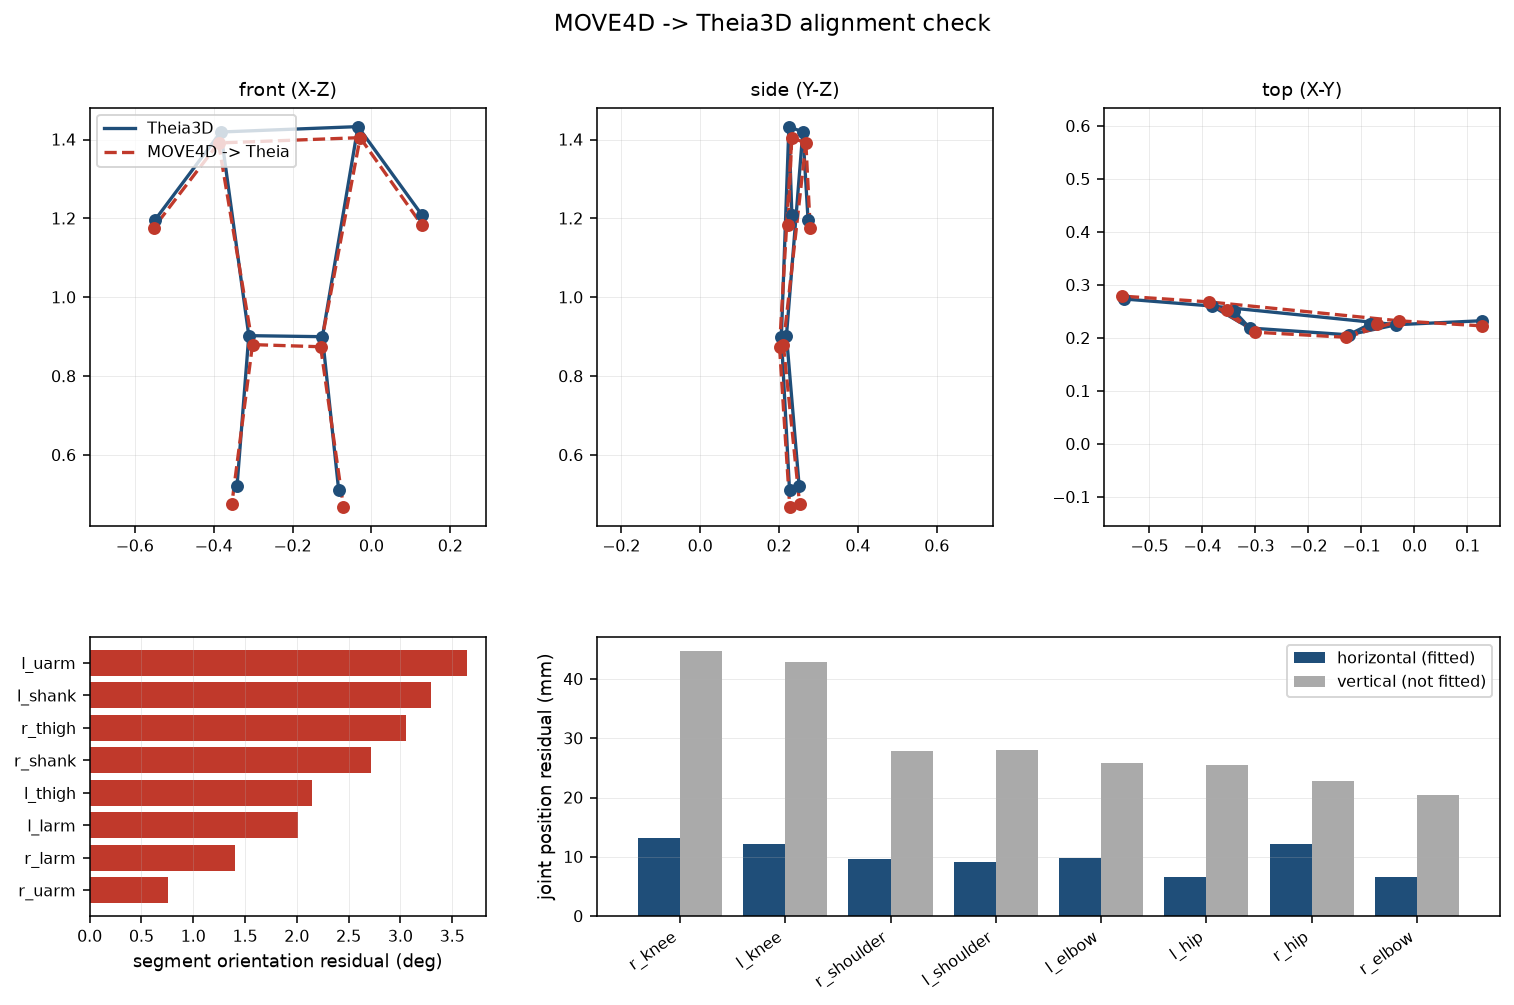
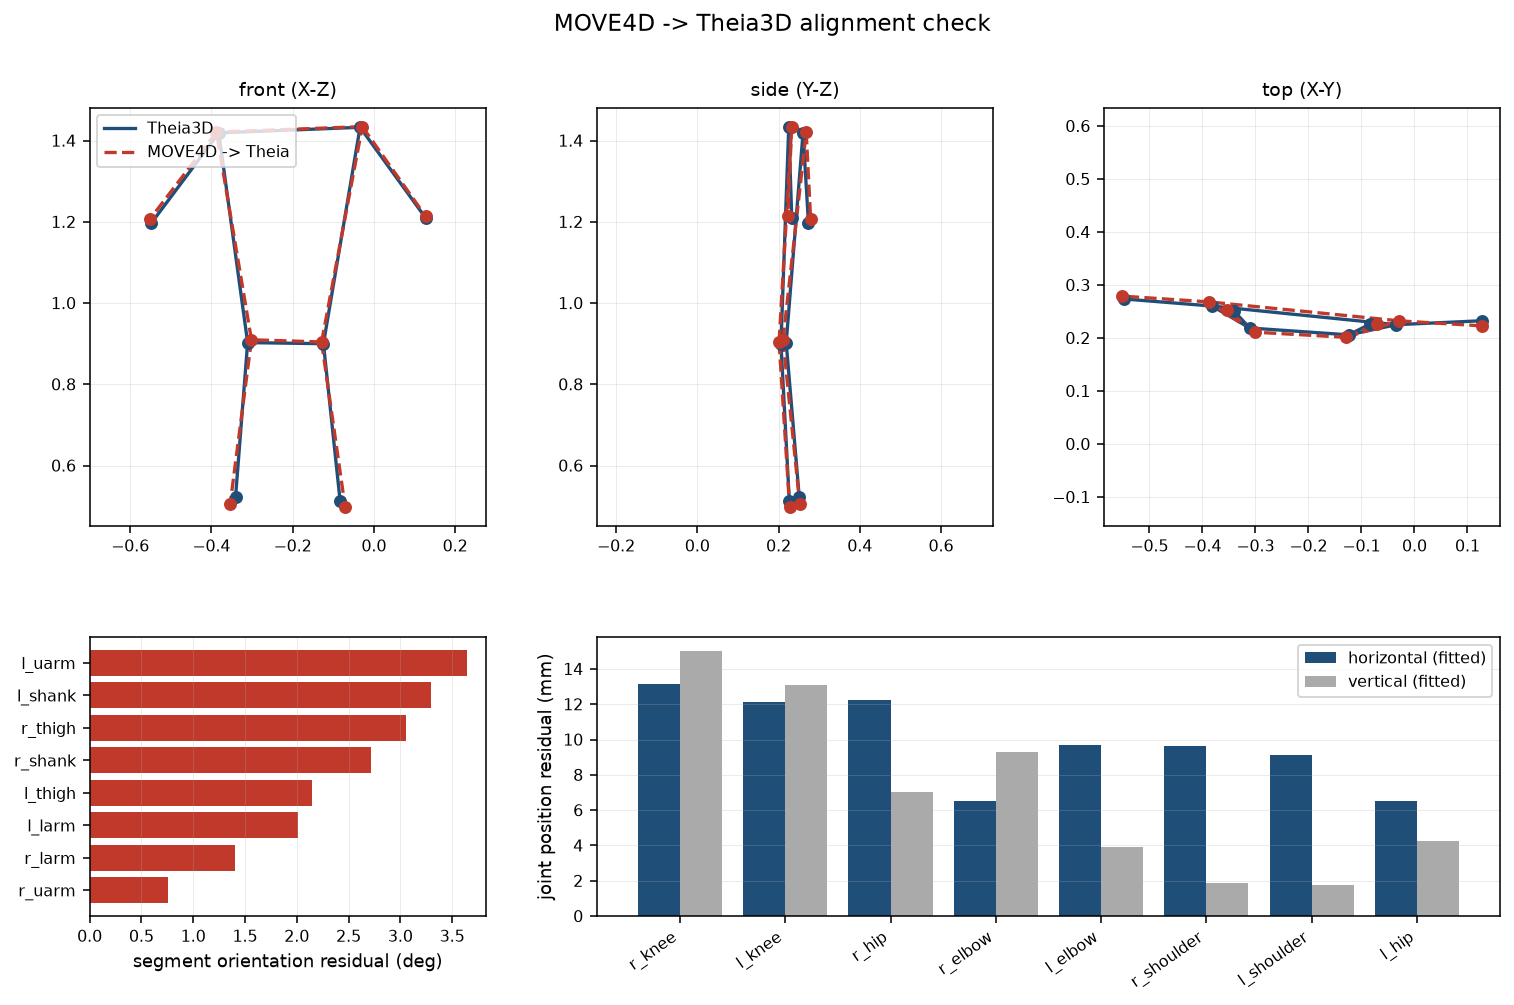
Fit the vertical translation again; corroborate it from the scan's floor
The two coordinate systems are offset vertically after all, so
ASSUME_SHARED_FLOOR defaults to False and t_z is fitted like any other
component (+29.8 mm here). The switch stays for datasets where the floors
really are shared.

The floor check earns its keep under the new default rather than losing its
purpose. The MOVE4D scan locates its own floor plane directly -- 757
vertices within 5 mm of z = 0, lowest 5.4 mm below -- so the fitted t_z can
be turned into an implied Theia floor height and sanity-checked. A +29.8 mm
offset puts Theia's floor at z = +29.8 mm in Theia coordinates, and Theia's
lowest model vertex then clears it by 13.9 mm rather than 43.7 mm. A
~270-vertex foot primitive clearing by 14 mm is far more plausible than one
clearing by 44 mm, so the mesh independently supports a real offset. The
report says plainly that this is corroboration and not proof, since Theia's
meshes are a model rather than a measurement.

Added a second, cheaper test: the residual signs. Suppressing a real offset
makes every vertical residual share a sign, while absorbing it correctly
leaves them scattered about zero. The report checks this every run and names
the switch to change. On this dataset, forcing ASSUME_SHARED_FLOOR = True
now makes all eight residuals positive and the script flags itself.

With t_z fitted the vertical residuals are -7 to -2 mm at the hips,
shoulders and elbows and +13 to +15 mm at the knees -- a genuine knee
[…]

diff --git a/m4d_to_theia_transform.py b/m4d_to_theia_transform.py
@@ -136,14 +136,24 @@ ML_AXES = [("hip_width", "r_hip", "l_hip"),
            ("shoulder_width", "r_shoulder", "l_shoulder"),
            ("elbow_width", "r_elbow", "l_elbow")]
 
-# Both systems put z = 0 on the floor, so the true vertical offset between
-# their coordinate systems is zero and t_z is not something to estimate.
-# Fitting it anyway just absorbs the two skeletons' vertical joint-centre
-# disagreement (~30 mm here) into the transform. With this True the fit
-# solves for the horizontal translation only and reports the vertical
-# disagreement separately, where it belongs. CHECK_FLOOR_FROM_MESH verifies
-# the assumption from the mesh rather than taking it on trust.
-ASSUME_SHARED_FLOOR = True
+# The two coordinate systems ARE offset vertically, so t_z is fitted like
+# any other component. Set ASSUME_SHARED_FLOOR = True only if you know both
+# systems put z = 0 on the same floor plane; it then locks t_z to zero and
+# reports what the joint centres implied instead of burying it in the matrix.
+#
+# Be aware of what a fitted t_z contains. It is the TRUE vertical offset
+# between the two calibrations PLUS any systematic vertical bias between the
+# two skeletons' joint-centre definitions, and one static pose cannot
+# separate them. The floor check below is the closest thing to an
+# independent read on it: the MOVE4D scan locates its own floor plane
+# directly, so the fitted t_z can be turned into an implied Theia floor
+# height and sanity-checked against where Theia's feet sit.
+#
+# The residual signs are the tell. Suppress a real offset and every vertical
+# residual comes out the same sign; absorb it correctly and they scatter
+# about zero with only genuine definition differences left standing. The
+# report checks this for you.
+ASSUME_SHARED_FLOOR = False
 CHECK_FLOOR_FROM_MESH = True
 
 # Joint centres whose positions drive the translation (step 6). These are the
@@ -701,20 +711,20 @@ def solve_rotation(U, V, vertical_only):
 def solve_translation(A, B, R, lock_vertical=None):
     """t minimising sum ||a_i - (R b_i + t)||^2, which is just the mean.
 
-    With lock_vertical, t_z is forced to zero instead of fitted: both systems
-    put z = 0 on the floor, so there is no vertical offset between their
-    coordinate systems to estimate, and anything the fit puts there is the
-    two skeletons disagreeing about joint-centre height, not a calibration
-    difference. The mean vertical difference is returned so it can be
-    reported rather than silently buried in the matrix.
+    With lock_vertical, t_z is forced to zero instead of fitted -- for the
+    case where both systems put z = 0 on the same floor plane and there is
+    therefore no vertical offset to estimate. Either way the vertical offset
+    the joint centres imply is returned separately, so it can be reported
+    and cross-checked against the floor rather than only living inside the
+    matrix.
     """
     lock = ASSUME_SHARED_FLOOR if lock_vertical is None else lock_vertical
     t = (A - B @ R.T).mean(axis=0)
-    vertical_disagreement = float(t[2])
+    implied_vertical = float(t[2])
     if lock:
         t = t.copy()
         t[2] = 0.0
-    return t, vertical_disagreement
+    return t, implied_vertical
 
 
 # %%==========================================================================
@@ -963,7 +973,9 @@ def solve(theia_path=None, m4d_path=None, vertical_only=None, verbose=True):
             vertical_per_joint=dict(zip(keys, vert_err.round(2).tolist()))),
         vertical=dict(
             locked=ASSUME_SHARED_FLOOR,
-            mean_disagreement_mm=vertical_gap * 1000,
+            implied_offset_mm=vertical_gap * 1000,
+            residual_signs_agree=bool(np.all(vert_err > 0)
+                                      or np.all(vert_err < 0)),
             floor_check=dict(theia=floor_check(th), m4d=floor_check(m4))
             if CHECK_FLOOR_FROM_MESH else None),
         heading_uncertainty=heading_uncertainty(U, V, labels),
@@ -1089,14 +1101,23 @@ def print_report(r, th, m4):
     pr = r["position_residual_mm"]
     vt = r["vertical"]
     if vt["locked"]:
-        print("    vertical LOCKED: both systems put z = 0 on the floor, so")
-        print(f"    t_z = 0, and the {vt['mean_disagreement_mm']:+.1f} mm the "
-              f"fit would have put there is")
-        print("    reported below as skeleton disagreement instead.")
+        print("    vertical LOCKED (ASSUME_SHARED_FLOOR): t_z = 0, and the")
+        print(f"    {vt['implied_offset_mm']:+.1f} mm the joint centres imply "
+              f"is reported below instead")
+        print("    of being absorbed into the matrix.")
+    else:
+        print(f"    vertical FITTED: t_z = {vt['implied_offset_mm']:+.1f} mm. "
+              f"That figure is the true")
+        print("    calibration offset PLUS any systematic vertical bias "
+              "between the")
+        print("    two skeletons' joint-centre definitions; one static pose "
+              "cannot")
+        print("    separate them. See the floor check below.")
     print(f"\n    horizontal residual   RMS {pr['horizontal_rms']:5.1f} mm"
           "   <- what the fit minimised")
-    print(f"    vertical residual     RMS {pr['vertical_rms']:5.1f} mm   "
-          + ("<- NOT fitted, definition gap" if vt["locked"] else ""))
+    print(f"    vertical residual     RMS {pr['vertical_rms']:5.1f} mm"
+          + ("   <- NOT fitted, definition gap" if vt["locked"]
+             else "   <- what is left after fitting t_z"))
     print(f"    total                 RMS {pr['rms']:5.1f} mm, "
           f"max {pr['max']:.1f} mm")
     print(f"\n      {'joint':11s} {'total':>9s} {'vertical':>9s}")
@@ -1113,25 +1134,61 @@ def print_report(r, th, m4):
             print(f"      {lab:12s} {d['n_vertices']:6d} verts | lowest "
                   f"{d['lowest_mm']:+7.1f} mm | top {d['highest_mm']:7.1f} mm"
                   f" | {d['within_5mm_of_floor']:5d} within 5 mm of z=0")
-        th_fc = fc.get("theia")
-        if th_fc and th_fc["within_5mm_of_floor"] == 0:
-            print("      Theia's meshes are its body MODEL (a 270-vertex "
-                  "primitive per")
-            print("      limb), not a measurement, so their "
-                  f"{th_fc['lowest_mm']:.0f} mm clearance says")
-            print("      nothing about where its floor is. Only the scan can "
-                  "settle that.")
-        m = fc.get("m4d")
+        m, th_fc = fc.get("m4d"), fc.get("theia")
         if m:
-            if abs(m["lowest_mm"]) < 20 and m["within_5mm_of_floor"] > 50:
-                print("      -> the scanned subject is standing ON the floor "
-                      "plane, not")
-                print("         floating: z = 0 really is the floor in the "
-                      "MOVE4D file.")
+            on_floor = abs(m["lowest_mm"]) < 20 and m["within_5mm_of_floor"] > 50
+            if on_floor:
+                print("      -> the scanned subject stands ON the floor, so "
+                      "MOVE4D's floor plane")
+                print(f"         is z = {m['lowest_mm']:+.1f} mm: its origin "
+                      f"is on the floor.")
             else:
-                print("      -> the scan does NOT reach z = 0. Check the "
-                      "assumption;")
-                print("         ASSUME_SHARED_FLOOR may be wrong for this file.")
+                print("      -> the scan does not reach z = 0, so MOVE4D's "
+                      "floor cannot be")
+                print("         located this way. Treat the rest of this "
+                      "block with caution.")
+            tz = vt["implied_offset_mm"]
+            if on_floor and th_fc:
+                # the MOVE4D floor (z=0) maps to z = t_z in Theia coordinates
+                clear_fit = th_fc["lowest_mm"] - tz
+                print(f"\n      A vertical offset of {tz:+.1f} mm puts Theia's "
+                      f"floor at z = {tz:+.1f} mm in")
+                print("      Theia coordinates, i.e. its origin that far "
+                      "BELOW the floor. Theia's")
+                print(f"      lowest model vertex then clears the floor by "
+                      f"{clear_fit:+.1f} mm, against")
+                print(f"      {th_fc['lowest_mm']:+.1f} mm if the two floors "
+                      f"were assumed shared.")
+                print("      Theia's meshes are a body MODEL (a ~270-vertex "
+                      "primitive per limb),")
+                print("      not a measurement, so neither figure is proof -- "
+                      "but a simplified")
+                if abs(clear_fit) < abs(th_fc["lowest_mm"]):
+                    print("      foot primitive sitting the SMALLER distance "
+                          "off the floor is the")
+                    print("      more plausible of the two, which independently "
+                          "supports a real")
+                    print("      vertical offset rather than a shared floor.")
+                else:
+                    print("      foot primitive would have to sit FURTHER off "
+                          "the floor for the")
+                    print("      fitted offset to hold, which argues the other "
+                          "way. Worth a look.")
+
+        # the residual signs are the other tell
+        if vt["residual_signs_agree"]:
+            print("\n      !! every vertical residual has the same sign. That "
+                  "is the signature of")
+            print("      a real vertical offset being SUPPRESSED, not a "
+                  "definition gap."
+                  + ("\n      Set ASSUME_SHARED_FLOOR = False."
+                     if vt["locked"] else ""))
+        else:
+            print("\n      vertical residuals scatter about zero, which is "
+                  "what you want:")
+            print("      the offset has been absorbed and only genuine "
+                  "definition")
+            print("      differences are left standing.")
 
     print("\n" + "-" * W)
     print("  RESULT     p_theia = T @ [p_m4d, 1]   (raw FBX coords both sides)")

diff --git a/README.md b/README.md
@@ -64,32 +64,46 @@ No weighting is needed: a plain Kabsch already weights each observation's
 heading contribution by its squared horizontal component, so the ML axes outvote
 the long axes ~7:1 for yaw and not at all for tilt, which is exactly right.
 
-## The vertical is not fitted
+## The vertical offset
 
-Both systems put **z = 0 on the floor**, so there is no vertical offset between
-their coordinate systems to estimate. `ASSUME_SHARED_FLOOR = True` locks
-`t_z = 0`; anything the fit would have put there is the two skeletons
-disagreeing about joint-centre *height*, and it is reported separately instead
-of being buried in the matrix.
+The two coordinate systems **are** offset vertically, so `t_z` is fitted like any
+other component: **+29.8 mm**. Set `ASSUME_SHARED_FLOOR = True` only if you know
+both systems put z = 0 on the same floor plane; it then locks `t_z = 0` and
+reports what the joint centres implied instead of burying it in the matrix.
 
-The script verifies this from the body **surface**, because a joint centre is an
-inference and the sole of a foot is not. MOVE4D ships the real scan (49,530
-vertices, skinned to the rig — the script does the linear blend skinning);
-Theia ships its body model as rigid meshes parented to the segments.
+Know what a fitted `t_z` contains: the true offset between the two calibrations
+**plus** any systematic vertical bias between the two skeletons' joint-centre
+definitions. One static pose cannot separate them.
+
+The script gives you two independent reads on whether the offset is real.
+
+**The floor, from the body surface** — because a joint centre is an inference and
+the sole of a foot is not. MOVE4D ships the real scan (49,530 vertices, skinned
+to the rig; the script does the linear blend skinning). Theia ships its body
+model as rigid meshes parented to the segments.
 
 ```
 Theia model   34054 verts | lowest  +43.7 mm | top 1750.0 mm |   0 within 5 mm of z=0
 MOVE4D scan   49530 verts | lowest   -5.4 mm | top 1769.6 mm | 757 within 5 mm of z=0
 ```
 
-**The scanned subject is standing on the floor plane, not floating.** Theia's
-meshes are a body model (a ~270-vertex primitive per limb), not a measurement,
-so their 44 mm clearance says nothing about where its floor is.
+The scanned subject is standing **on** the floor, not floating, so MOVE4D's
+origin is on the floor. A +29.8 mm offset then puts Theia's floor at z = +29.8 mm
+in Theia coordinates — its origin that far *below* the floor — and Theia's lowest
+model vertex clears that floor by **13.9 mm**, against 43.7 mm if the floors were
+assumed shared. A ~270-vertex foot primitive clearing by 14 mm is far more
+plausible than one clearing by 44 mm, so the mesh independently supports a real
+vertical offset. It is corroboration, not proof: Theia's meshes are a model.
 
-Consequence: the vertical residual (**30.9 mm RMS**, every joint positive —
-Theia's centres sit 20–45 mm above MOVE4D's) is now visible as a skeleton
-property rather than hidden in `t_z`. The horizontal residual, **10.2 mm RMS**,
-is what the fit actually minimises.
+**The residual signs.** Suppress a real offset and every vertical residual comes
+out the same sign; absorb it correctly and they scatter about zero with only
+genuine definition differences left. The report checks this automatically —
+forcing `ASSUME_SHARED_FLOOR = True` on this dataset makes all eight residuals
+positive and the script says so.
+
+With `t_z` fitted, the vertical residuals are −7 to −2 mm at the hips, shoulders
+and elbows and **+13 to +15 mm at the knees** — a real knee joint-centre
+definition difference, no longer masked by an offset.
 
 ## Why not the full 3×3 segment orientation?
 
@@ -160,18 +174,18 @@ orientations usable.
 ## Result for D05_C1_apose
 
 ```
-heading (yaw)  −2.337°     translation  (−0.386, +0.227, 0.000) m
+heading (yaw)  −2.337°     translation  (−0.386, +0.227, +0.030) m
 
 T = [ 0.999169   0.000000  -0.040771  -0.386516 ]
     [-0.040771   0.000000  -0.999169   0.227162 ]
-    [ 0.000000   1.000000   0.000000   0.000000 ]
+    [ 0.000000   1.000000   0.000000   0.029752 ]
     [ 0.000000   0.000000   0.000000   1.000000 ]
 ```
 
-| | direction residual | horizontal position |
-|---|---|---|
-| vertical-axis only | **2.16° RMS** | **10.2 mm RMS** |
-| full 3-DOF | 2.14° | 10.1 mm |
+| | direction residual | horizontal position | vertical | total |
+|---|---|---|---|---|
+| vertical-axis only | **2.16° RMS** | **10.2 mm RMS** | 8.5 mm | 13.2 mm |
+| full 3-DOF | 2.14° | 10.1 mm | | |
 
 The 0.31° tilt the 3-DOF fit wants buys 0.1 mm, so it is absorbing skeleton
 mismatch rather than a real calibration difference.
@@ -199,7 +213,7 @@ rotation, so one file is mirrored and no rigid transform can fix it.
 are both known. Below ~0.99 means that rig does *not* have a consistent bone
 axis and step 5 needs rethinking for your rig version.
 
-**Floor.** As above, from the surface.
+**Floor.** As above, from the surface, plus the residual-sign test.
 
 **End-to-end.** `T` is fitted in a canonicalised frame and rebuilt to act on raw
 FBX coordinates, which drags in both files' up-axis matrices and unit scale
@@ -239,6 +253,10 @@ Ordered by value, and none of it is an algorithm change:
 tables in CONFIG. If your MOVE4D rig version names joints differently, edit those
 and nothing else. `USE_ML_AXES`, `ASSUME_SHARED_FLOOR`, `CHECK_FLOOR_FROM_MESH`
 and `VERTICAL_ONLY` are the switches.
+
+`VERTICAL_ONLY` and `ASSUME_SHARED_FLOOR` are independent and mean different
+things: the first constrains the *rotation* to be about the vertical, the second
+locks the *translation's* vertical component to zero.
 
 `fbx_raw.py`, `fbx_scene.py`, `align_m4d_to_theia.py` and `plot_alignment.py`
 are the original multi-module version, kept for reference. Nothing depends on
